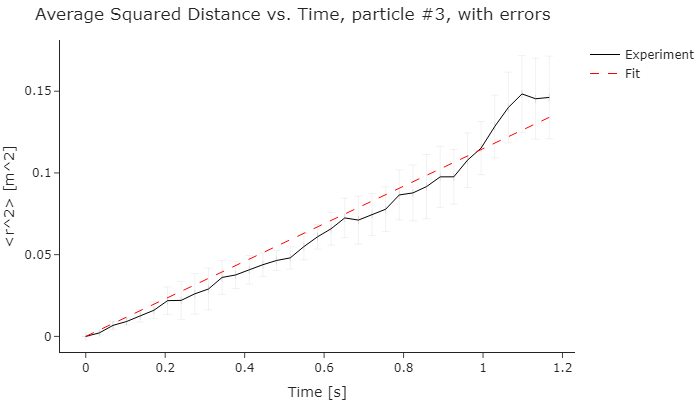
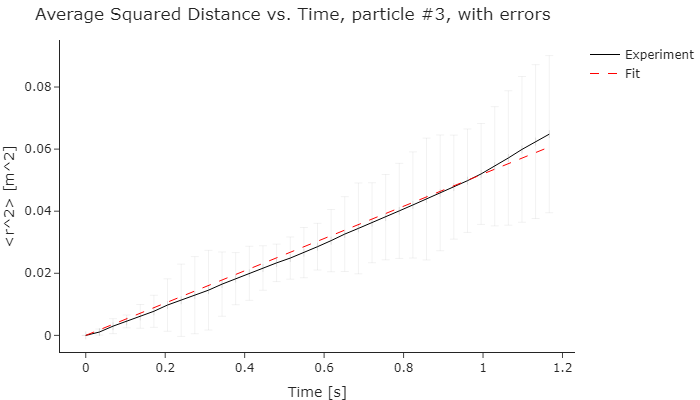
change r^2 calculation, works fantastic now

diff --git a/brownian_motion.py b/brownian_motion.py
@@ -6,6 +6,12 @@ import CurveFit
 import numpy as np
 from scipy.stats import linregress
 import pandas as pd
+import equations
+
+
+def normalize(vec):
+    # normalizes the x and y values to start with zero
+    return vec - vec[0]
 
 
 def create_brownian_motion(T, dt, mu_x, mu_y, sigma, dims=2):
@@ -31,18 +37,33 @@ def drop_drift(x, y):
     # return x, y
 
 
-def calc_average_r_squared(x, y, partitions):
-    # return np.cumsum(self._r_squared) / np.arange(1, len(self._r_squared) - 1)
-    x_partitions = np.array_split(x, partitions)
-    y_partitions = np.array_split(y, partitions)
-    assert len(x) == len(y)
-    r_2 = np.zeros(int(len(x) / partitions))
-    for j in range(partitions):
-        for i in range(int(len(x) / partitions)):
-            r_2[i] += (np.square(x_partitions[j][i] - x_partitions[j][0]) + np.square(
-                y_partitions[j][i] - y_partitions[j][0]))
-    r_2 = r_2 / partitions
-    return r_2
+def calculate_r_squared(x, y):
+    r_squared = np.square(normalize(x)) + np.square(normalize(y))
+    return np.cumsum(r_squared) / np.arange(1, len(r_squared) + 1)
+
+
+def min_length(arr_2d):
+    min_len = 18000000
+    for i in range(len(arr_2d)):
+        if int(len(arr_2d[i])) < min_len:
+            min_len = len(arr_2d[i])
+    return min_len
+
+
+def cut_array_equally(arr, num_chunks):
+    partitions = np.array_split(arr, num_chunks)
+    minimal_length = min_length(partitions)
+    for i, particle in enumerate(partitions):
+        partitions[i] = particle[:minimal_length]
+    return partitions
+
+
+def calc_average_r_squared(x, y, num_fictive_particles):
+    x_partitions = cut_array_equally(x, num_fictive_particles)
+    y_partitions = cut_array_equally(y, num_fictive_particles)
+    r_squared_vectors = [calculate_r_squared(x_partitions[i], y_partitions[i])
+                         for i in range(num_fictive_particles)]
+    return np.average(r_squared_vectors, axis=0)
 
 
 def calc_r_squared_error(x, y, x_error, y_error):
@@ -54,7 +75,7 @@ def analyze_week1():
     # read its data, normalize it against drift, plot its r^2 vs time, fit and discover D, plot D vs R of particle
     drifted = [1, 2, 3]
     for particle in range(1, 6):
-        excel_path = r'C:\Users\user\Desktop\lab\physics-data-analyzer\experiment_data\particle{}.xlsx'.format(
+        excel_path = r'C:\Users\user\Desktop\lab\data-analyzer\experiment_data\week1\particle{}.xlsx'.format(
             particle)
         frames_per_second = 30
 
@@ -85,16 +106,6 @@ def analyze_week1():
         utils.plot_curve_with_fit(equation, time, average_r_2, particle)
         error_t = np.zeros(shape=average_r_2.shape)
         utils.plot_curve_with_fit_and_errors(equation, time, error_t, average_r_2, error_r, particle)
-
-        # average_r_2 = calc_average_r_squared2(x, y, 200)
-        # time = np.linspace(0, len(average_r_2), num=len(average_r_2)) / 30
-        # utils.plot_curve_with_fit(equations.linear, time, average_r_2, particle)
-
-
-def analyze_week1_again():
-    # use 30% concentrations to plot r^2 vs time
-    # than D vs radius
-    pass
 
 
 def analyze_week2():
@@ -143,7 +154,5 @@ def plot_brownian_motion():
 
 
 if __name__ == '__main__':
-    # analyze_week1()
-    # analyze_week1_again()
+    analyze_week1()
     # analyze_week2()
-    pass

diff --git a/main.py b/main.py
@@ -9,23 +9,38 @@ import equations
 import numpy as np
 
 
-def normalize_values(vec):
+def normalize(vec):
     # normalizes the x and y values to start with zero
     return vec - vec[0]
 
 
-def calc_average_r_squared(x, y, partitions):
-    # return np.cumsum(self._r_squared) / np.arange(1, len(self._r_squared) - 1)
-    x_partitions = np.array_split(x, partitions)
-    y_partitions = np.array_split(y, partitions)
-    assert len(x) == len(y)
-    r_2 = np.zeros(int(len(x) / partitions))
-    for j in range(partitions):
-        for i in range(int(len(x) / partitions)):
-            r_2[i] += (np.square(x_partitions[j][i] - x_partitions[j][0]) + np.square(
-                y_partitions[j][i] - y_partitions[j][0]))
-    r_2 = r_2 / partitions
-    return r_2
+def calculate_r_squared(x, y):
+    r_squared = np.square(normalize(x)) + np.square(normalize(y))
+    return np.cumsum(r_squared) / np.arange(1, len(r_squared) + 1)
+
+
+def min_length(arr_2d):
+    min_len = 18000000
+    for i in range(len(arr_2d)):
+        if int(len(arr_2d[i])) < min_len:
+            min_len = len(arr_2d[i])
+    return min_len
+
+
+def cut_array_equally(arr, num_chunks):
+    partitions = np.array_split(arr, num_chunks)
+    minimal_length = min_length(partitions)
+    for i, particle in enumerate(partitions):
+        partitions[i] = particle[:minimal_length]
+    return partitions
+
+
+def calc_average_r_squared(x, y, num_fictive_particles):
+    x_partitions = cut_array_equally(x, num_fictive_particles)
+    y_partitions = cut_array_equally(y, num_fictive_particles)
+    r_squared_vectors = [calculate_r_squared(x_partitions[i], y_partitions[i])
+                         for i in range(num_fictive_particles)]
+    return np.average(r_squared_vectors, axis=0)
 
 
 def analyze_effect_of_temperature():
@@ -37,7 +52,7 @@ def analyze_effect_of_temperature():
     for temperature in temperatures:
         # get data and normalize it
         x, y = data_handler.get_columns(['x{}'.format(temperature), 'y{}'.format(temperature)])
-        x, y = normalize_values(x), normalize_values(y)
+        x, y = normalize(x), normalize(y)
 
         # calculate average r^2
         average_r_squared = calc_average_r_squared(x, y, 20)
